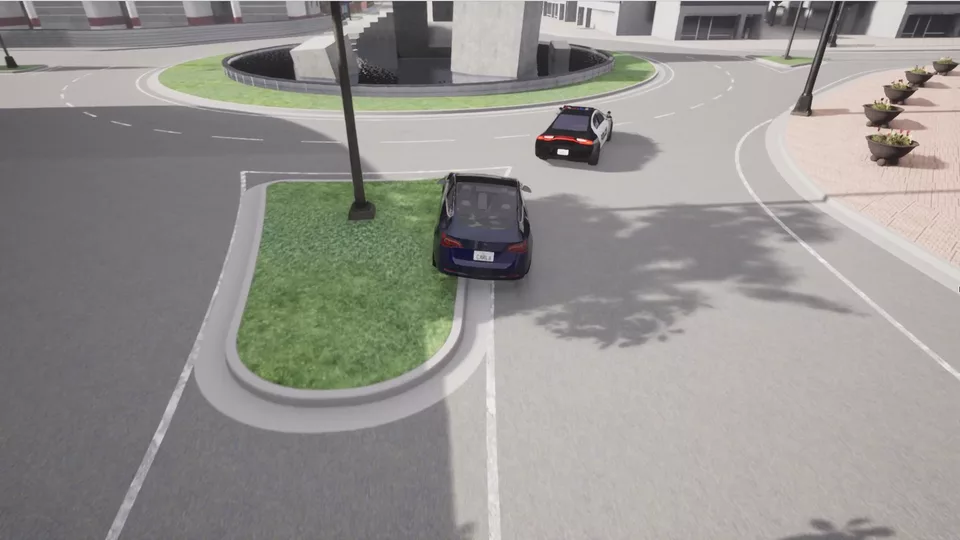
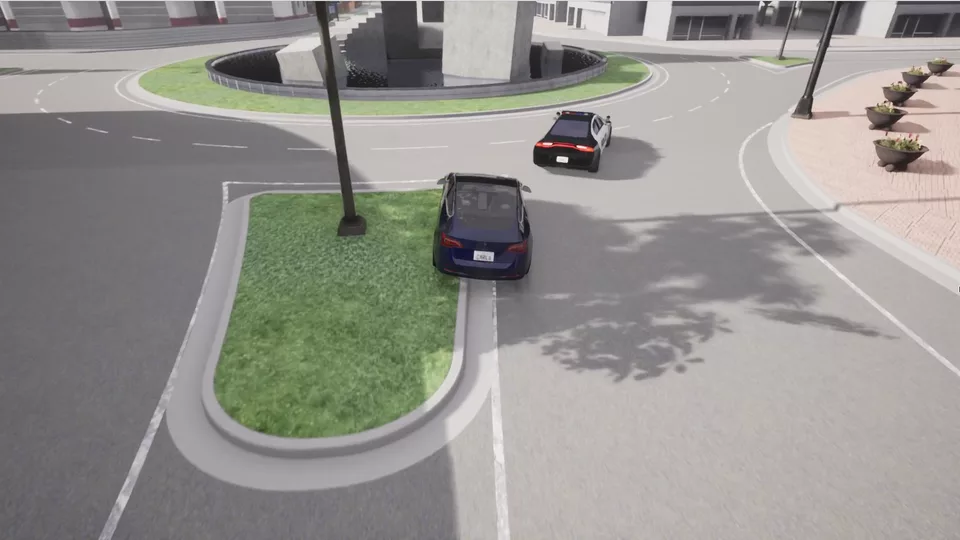
Polish CARLA title and evaluation context

diff --git a/_sass/_portfolio.scss b/_sass/_portfolio.scss
@@ -419,6 +419,12 @@ body {
   overflow-wrap: anywhere;
 }
 
+.project-title-line--nowrap {
+  @media (min-width: 768px) {
+    white-space: nowrap;
+  }
+}
+
 .project-header__image {
   margin: 0;
 

diff --git a/_pages/carla/02_imitation.md b/_pages/carla/02_imitation.md
@@ -15,9 +15,9 @@ next_label: Hybrid Approach
 
 ## Why Imitation Learning?
 
-E2E와 학습 기반 주행을 처음 경험하기 위한 현실적인 첫 단계로 Imitation Learning을 선택했다. 직접 주행 시연 데이터를 만들 수 있고, Reinforcement Learning보다 프로젝트 기간과 사용 가능한 하드웨어 안에서 시도하기 적합했다.
+당시 E2E 자율주행에 관심이 생겼고, 학습 기반 주행을 처음 경험하기 위한 현실적인 첫 단계로 Imitation Learning을 선택했다. 직접 주행 시연 데이터를 만들 수 있고, Reinforcement Learning보다 프로젝트 기간과 사용 가능한 하드웨어 안에서 시도하기 적합했다.
 
-기본 주행 데이터는 Rule-based 차량을 주행시켜 수집했다. Lattice보다 부드러운 장애물 회피 동작을 보여주기 위한 시연은 키보드 조작으로 추가했다. 모델은 경량 CNN을 사용했으며, 모델 구조 자체보다 폐루프 주행에서 나타나는 행동과 실패를 비교하는 데 초점을 두었다.
+기본 주행 데이터는 Rule-based 차량을 주행시켜 수집했다. 장애물 회피 상황의 demonstration은 사람이 키보드로 직접 주행하여 추가 수집했다. 모델은 경량 CNN을 사용했으며, 모델 구조 자체보다 폐루프 주행에서 나타나는 행동과 실패를 비교하는 데 초점을 두었다.
 
 <figure class="project-media project-media--concept">
   <span class="concept-label">Conceptual Diagram</span>

diff --git a/_projects/01_carla_hybrid.md b/_projects/01_carla_hybrid.md
@@ -1,6 +1,7 @@
 ---
 layout: project
 title: "What Failed Under Unseen Conditions? Rule-Based, Imitation, and Hybrid Driving in CARLA"
+display_title: 'What Failed Under Unseen Conditions?<br><span class="project-title-line--nowrap"><span style="white-space: nowrap;">Rule-Based</span>, Imitation, and Hybrid Driving in CARLA</span>'
 subtitle: CARLA에서 Rule-based, Imitation Learning, Hybrid 주행을 설계하고 낯선 환경에서 반복 평가한 프로젝트
 description: Rule-based, Imitation Learning, Hybrid 자율주행을 구현하고 낯선 환경에서 반복 평가와 failure analysis를 수행한 프로젝트.
 importance: 1
@@ -77,6 +78,8 @@ resources: []
   <div><small>Hybrid</small><strong>20 / 30</strong><span>collision-free runs</span></div>
   <div><small>Imitation Learning</small><strong>0 / 30</strong><span>collision-free runs</span></div>
 </div>
+
+<p class="carla-metric-note">※ Collision-free run은 충돌이 기록되지 않은 주행을 의미하며, 전체 미션 성공과 동일한 지표는 아닙니다.</p>
 
 <div class="carla-callout carla-callout--plain">
   <small>Unseen-condition evaluation</small>
